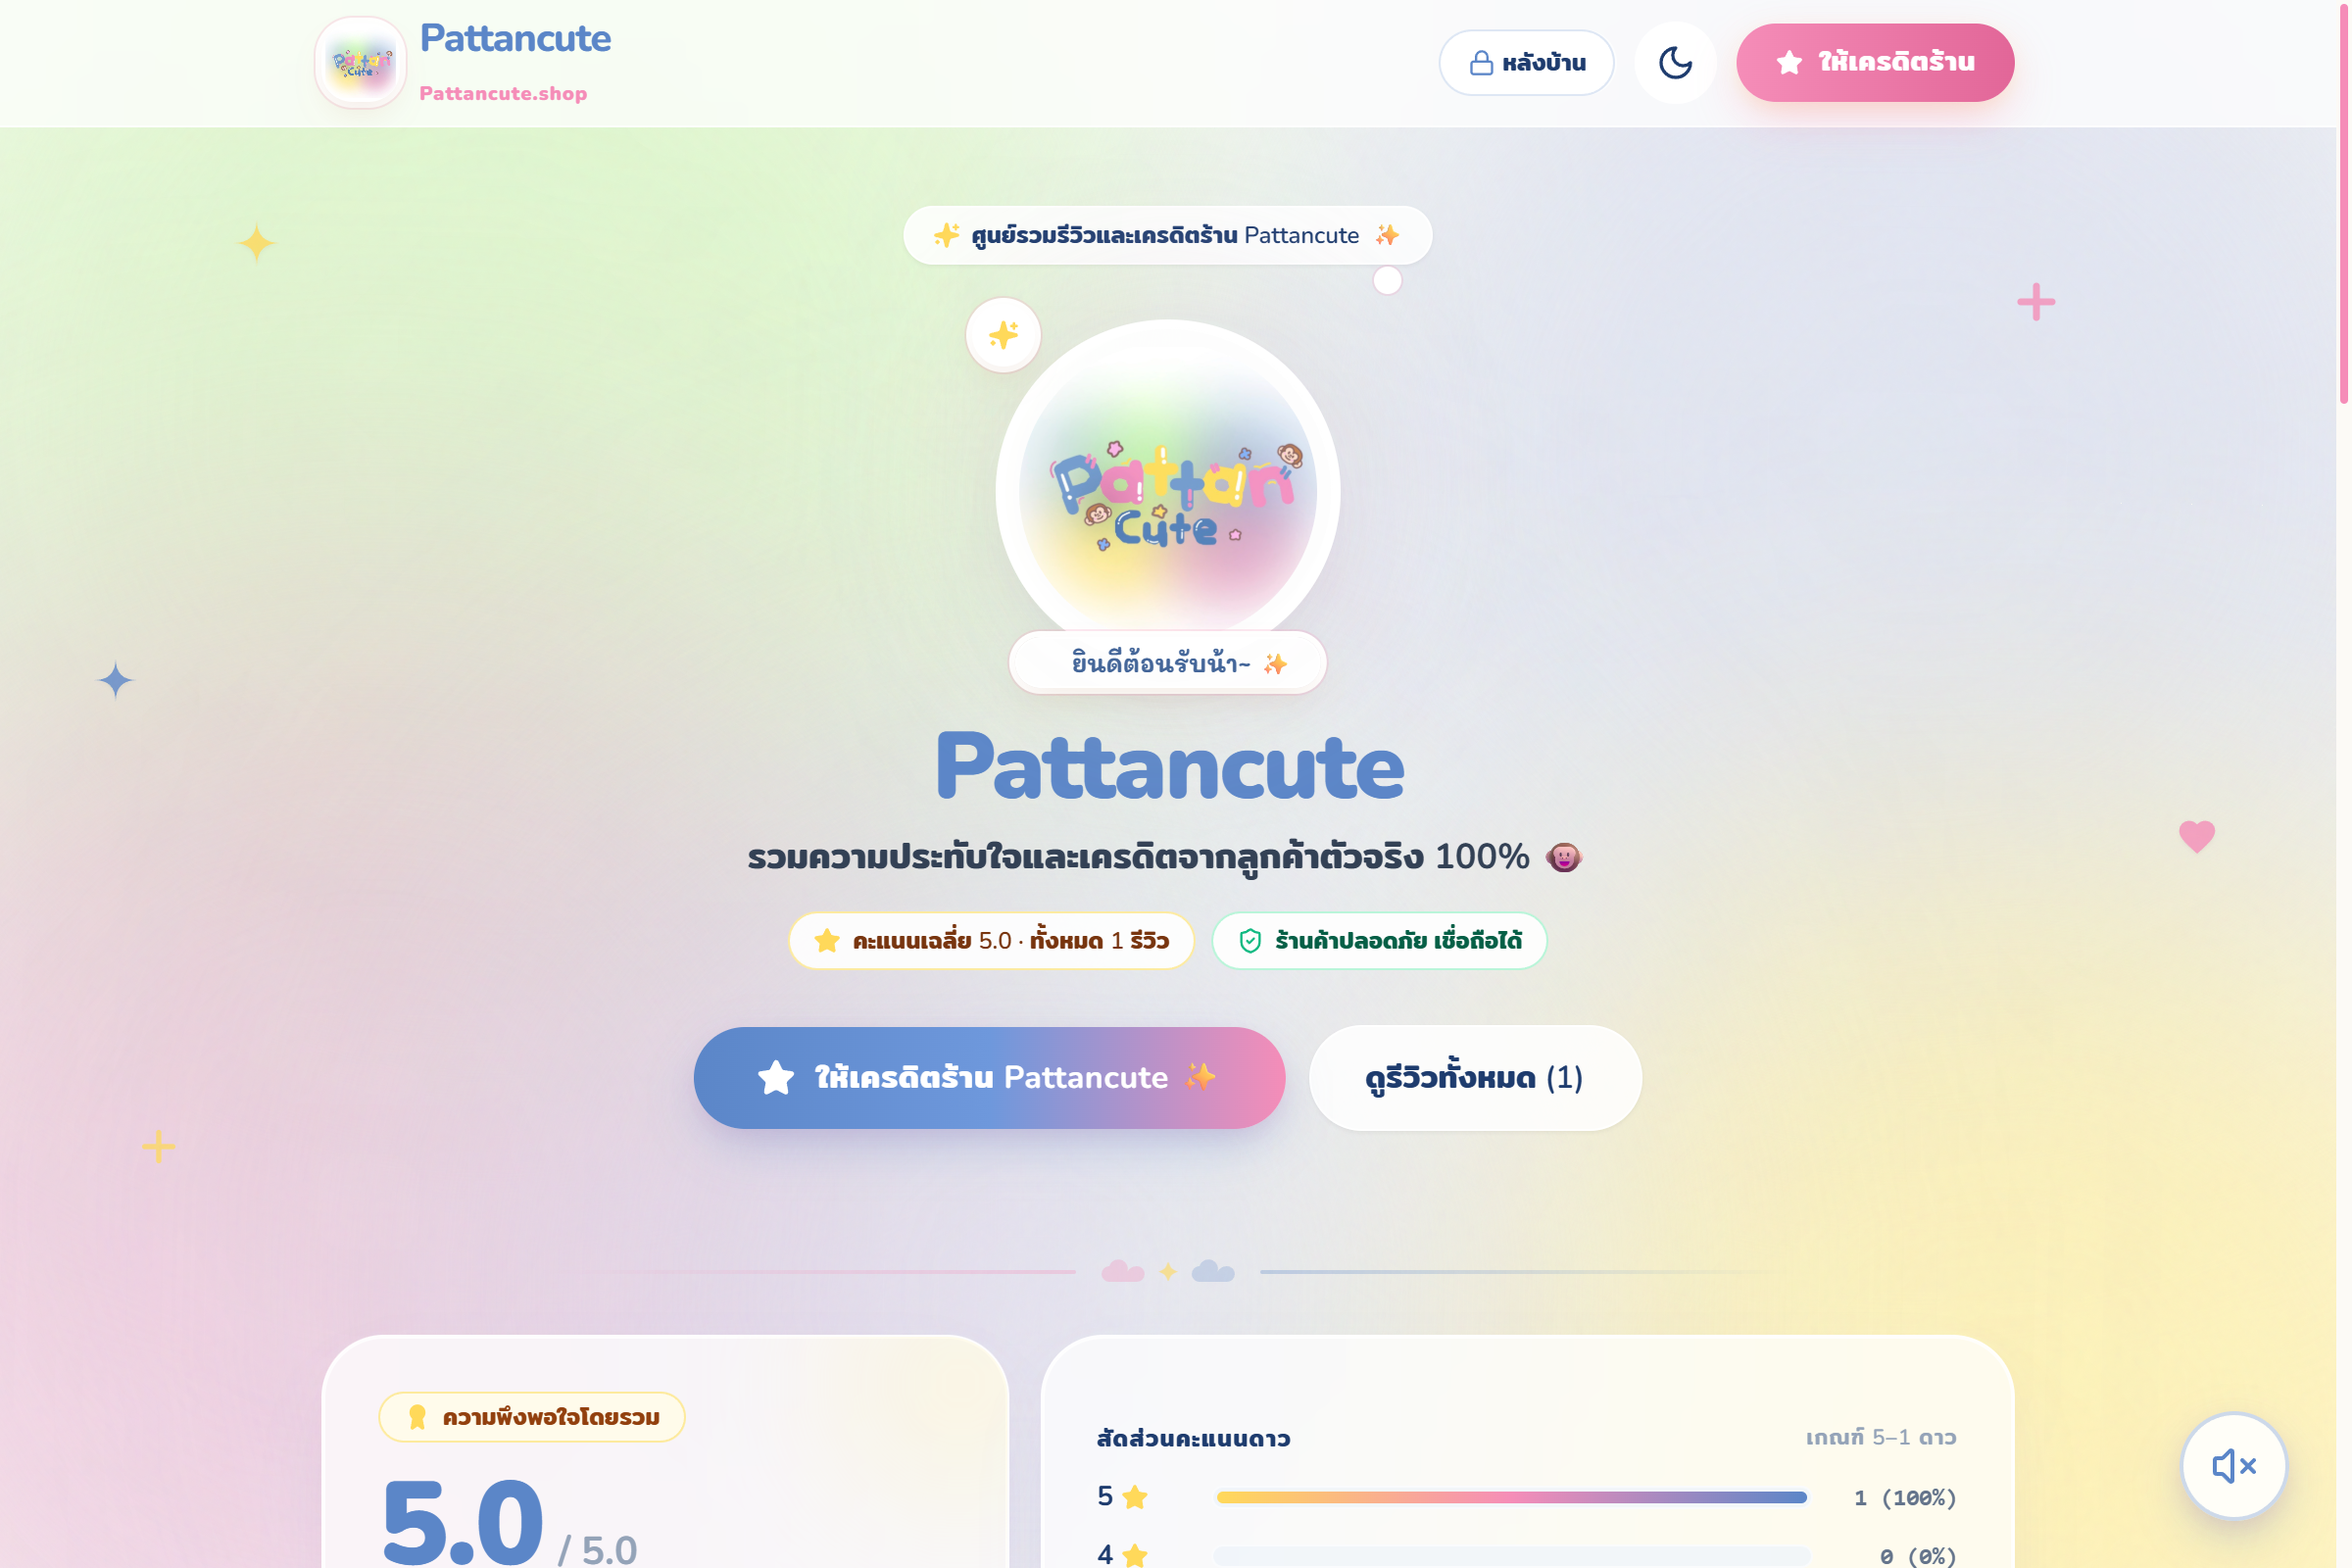
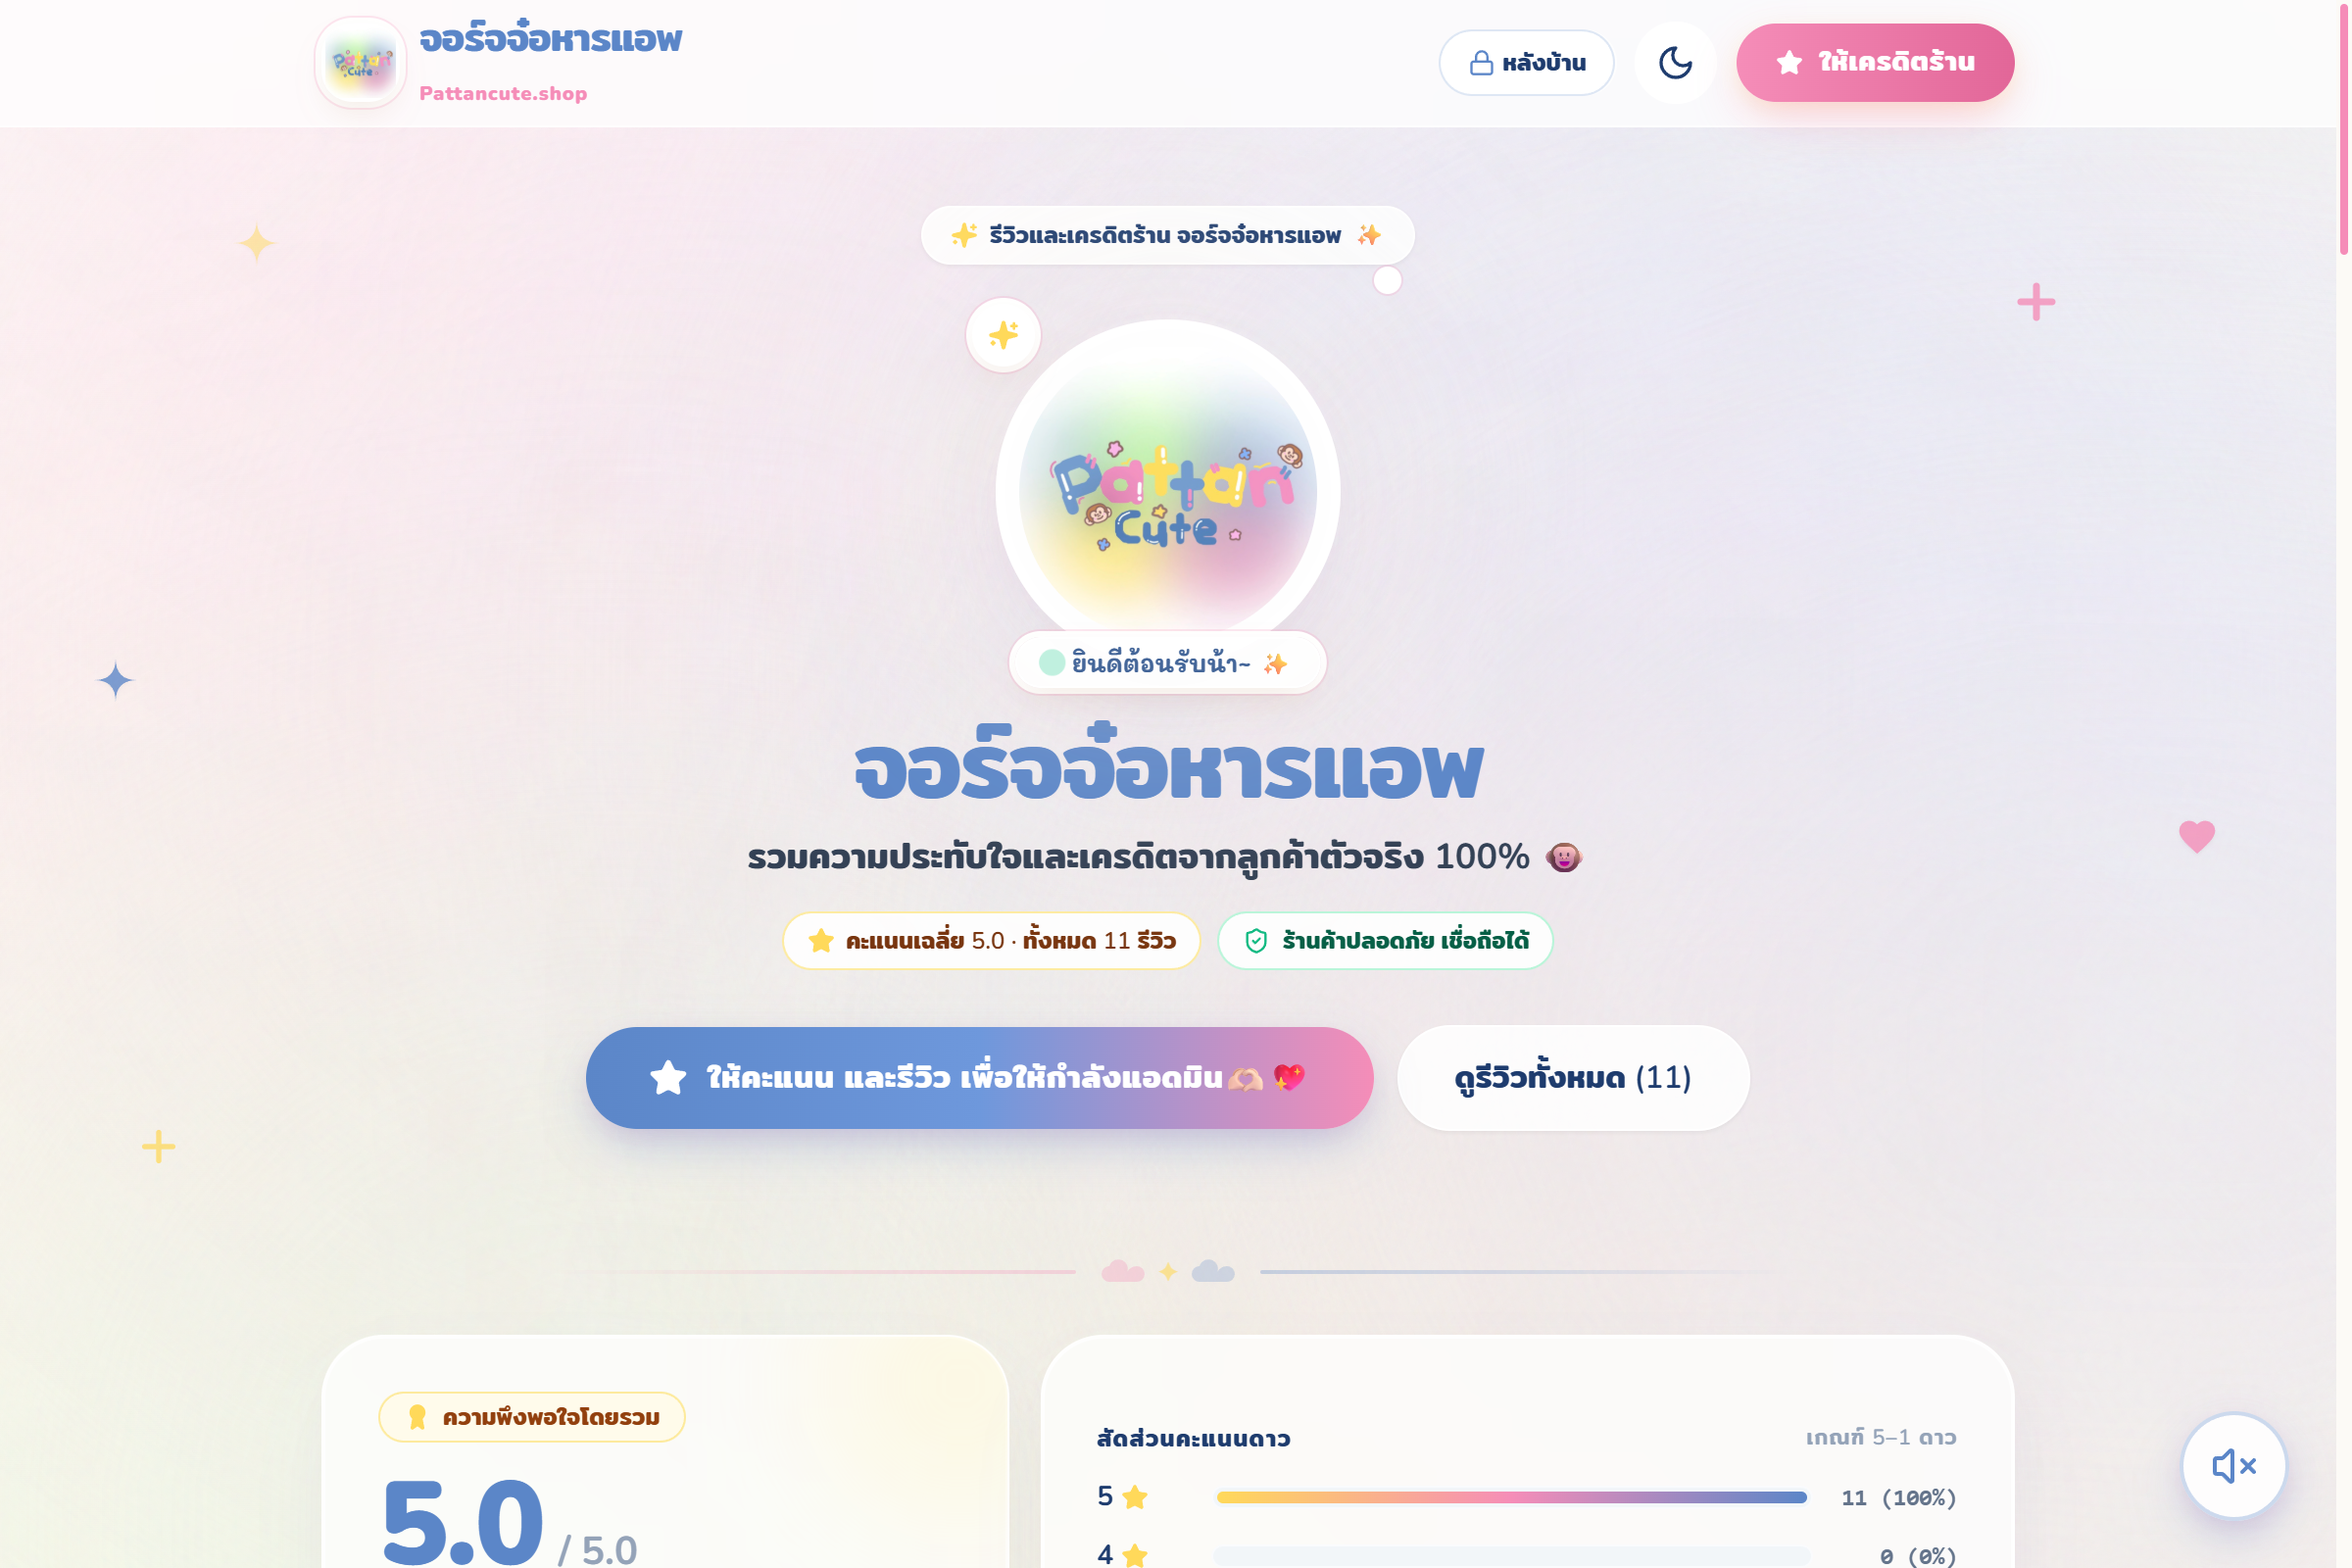
style: soft, evenly diffused pastel aurora background + editable greeting bubble

diff --git a/src/components/Decorations.jsx b/src/components/Decorations.jsx
@@ -27,35 +27,50 @@ export function Decorations() {
       {/* 1. Subtle Paper Texture Noise Overlay */}
       <div className="absolute inset-0 bg-noise-overlay pointer-events-none z-10" />
 
-      {/* 2. Slow Living Aurora Mesh Gradient Blobs (CSS animate-aurora) */}
-      {/* Mint Green Aura (Top Left) */}
-      <div
-        className="absolute -top-32 -left-28 w-[32rem] h-[32rem] sm:w-[44rem] sm:h-[44rem] rounded-full bg-[#CDF5B5]/60 dark:bg-[#1E3B28]/35 blur-[100px] animate-aurora"
-        style={{ animationDuration: '22s' }}
-      />
+      {/* 2. Seamless Ambient Mesh Wash Base (ให้สีฟุ้งนวลสม่ำเสมอทั่วทั้งหน้าจอ) */}
+      <div className="absolute inset-0 bg-gradient-to-tr from-[#FFF3D6]/25 via-[#FDF0F6]/30 to-[#EBF2FF]/30 dark:from-[#1A263D]/25 dark:via-[#261A2B]/20 dark:to-[#172338]/25 pointer-events-none" />
 
-      {/* Soft Purple & Blue Aura (Top Right) */}
+      {/* 3. Slow Living Aurora Mesh Gradient Blobs (ฟุ้ง นวล ละมุน สม่ำเสมอกัน) */}
+      {/* Top Center / Hero Glow (Warm Peach & Vanilla) */}
       <div
-        className="absolute -top-24 -right-28 w-[30rem] h-[30rem] sm:w-[42rem] sm:h-[42rem] rounded-full bg-[#D5DDF0]/70 dark:bg-[#1E2B4B]/35 blur-[100px] animate-aurora-slow"
-        style={{ animationDuration: '26s' }}
-      />
-
-      {/* Sweet Strawberry Pink Aura (Mid Left) */}
-      <div
-        className="absolute top-[38%] -left-36 w-[28rem] h-[28rem] sm:w-[40rem] sm:h-[40rem] rounded-full bg-[#E8B4D6]/60 dark:bg-[#431B34]/30 blur-[100px] animate-aurora"
+        className="absolute -top-28 left-1/2 -translate-x-1/2 w-[46rem] h-[34rem] sm:w-[60rem] sm:h-[42rem] rounded-full bg-[#FFF0E0]/45 dark:bg-[#3B261D]/20 blur-[150px] animate-aurora-slow"
         style={{ animationDuration: '24s' }}
       />
 
-      {/* Warm Sunny Butter Yellow Aura (Mid Right) */}
+      {/* Top Left (Strawberry Milk Pink) */}
       <div
-        className="absolute top-[55%] -right-32 w-[28rem] h-[28rem] sm:w-[38rem] sm:h-[38rem] rounded-full bg-[#FFF0A0]/70 dark:bg-[#3E3418]/35 blur-[95px] animate-aurora-slow"
+        className="absolute -top-20 -left-20 w-[42rem] h-[42rem] sm:w-[54rem] sm:h-[54rem] rounded-full bg-[#FADCE8]/45 dark:bg-[#3D1A30]/25 blur-[140px] animate-aurora"
+        style={{ animationDuration: '22s' }}
+      />
+
+      {/* Top Right (Baby Powder Blue) */}
+      <div
+        className="absolute -top-20 -right-20 w-[42rem] h-[42rem] sm:w-[54rem] sm:h-[54rem] rounded-full bg-[#DCE7FC]/50 dark:bg-[#1A2C4A]/25 blur-[140px] animate-aurora-slow"
+        style={{ animationDuration: '26s' }}
+      />
+
+      {/* Mid Center (Soft Lavender Dream) */}
+      <div
+        className="absolute top-[32%] left-1/2 -translate-x-1/2 w-[44rem] h-[44rem] sm:w-[58rem] sm:h-[58rem] rounded-full bg-[#EFE3FC]/40 dark:bg-[#2A1C3E]/20 blur-[150px] animate-aurora"
+        style={{ animationDuration: '25s' }}
+      />
+
+      {/* Mid Left (Soft Matcha Cream / Mint) */}
+      <div
+        className="absolute top-[48%] -left-24 w-[38rem] h-[38rem] sm:w-[50rem] sm:h-[50rem] rounded-full bg-[#E2F7DF]/40 dark:bg-[#183424]/20 blur-[140px] animate-aurora-slow"
         style={{ animationDuration: '28s' }}
       />
 
-      {/* Bottom Center Lavender / Mint Aura */}
+      {/* Mid Right (Warm Buttercream Glow) */}
       <div
-        className="absolute -bottom-36 left-[20%] w-[34rem] h-[34rem] rounded-full bg-[#D5DDF0]/55 dark:bg-[#1C2840]/30 blur-[110px] animate-aurora"
-        style={{ animationDuration: '20s' }}
+        className="absolute top-[52%] -right-24 w-[38rem] h-[38rem] sm:w-[50rem] sm:h-[50rem] rounded-full bg-[#FFF3D0]/45 dark:bg-[#382E16]/20 blur-[140px] animate-aurora"
+        style={{ animationDuration: '24s' }}
+      />
+
+      {/* Bottom Center (Soft Periwinkle & Rose Cushion) */}
+      <div
+        className="absolute -bottom-28 left-1/2 -translate-x-1/2 w-[46rem] h-[40rem] sm:w-[62rem] sm:h-[46rem] rounded-full bg-gradient-to-r from-[#FADCE8]/35 via-[#DCE7FC]/40 to-[#FFF3D0]/35 dark:from-[#3D1A30]/20 dark:via-[#1A2C4A]/20 dark:to-[#382E16]/20 blur-[150px] animate-aurora-slow"
+        style={{ animationDuration: '22s' }}
       />
 
       {/* 3. Floating Sticker Decors with Smooth Scroll Parallax */}

diff --git a/src/components/Hero.jsx b/src/components/Hero.jsx
@@ -94,7 +94,7 @@ export function Hero({
         aria-label="แตะน้องลิง Pattancute เพื่อรับความรัก"
       >
         {/* Luminous Soft Aurora Glow behind logo */}
-        <div className="absolute -inset-4 bg-gradient-to-tr from-[#CDF5B5]/40 via-[#E8B4D6]/40 to-[#D5DDF0]/50 rounded-full blur-2xl opacity-75 group-hover:opacity-100 transition-opacity duration-500 pointer-events-none" />
+        <div className="absolute -inset-6 bg-gradient-to-tr from-[#FADCE8]/45 via-[#FFF3D0]/40 to-[#DCE7FC]/45 rounded-full blur-3xl opacity-80 group-hover:opacity-100 transition-opacity duration-500 pointer-events-none" />
 
         {/* Floating Hearts/Emojis when tapped */}
         {floatingEmojis.map((item) => (
